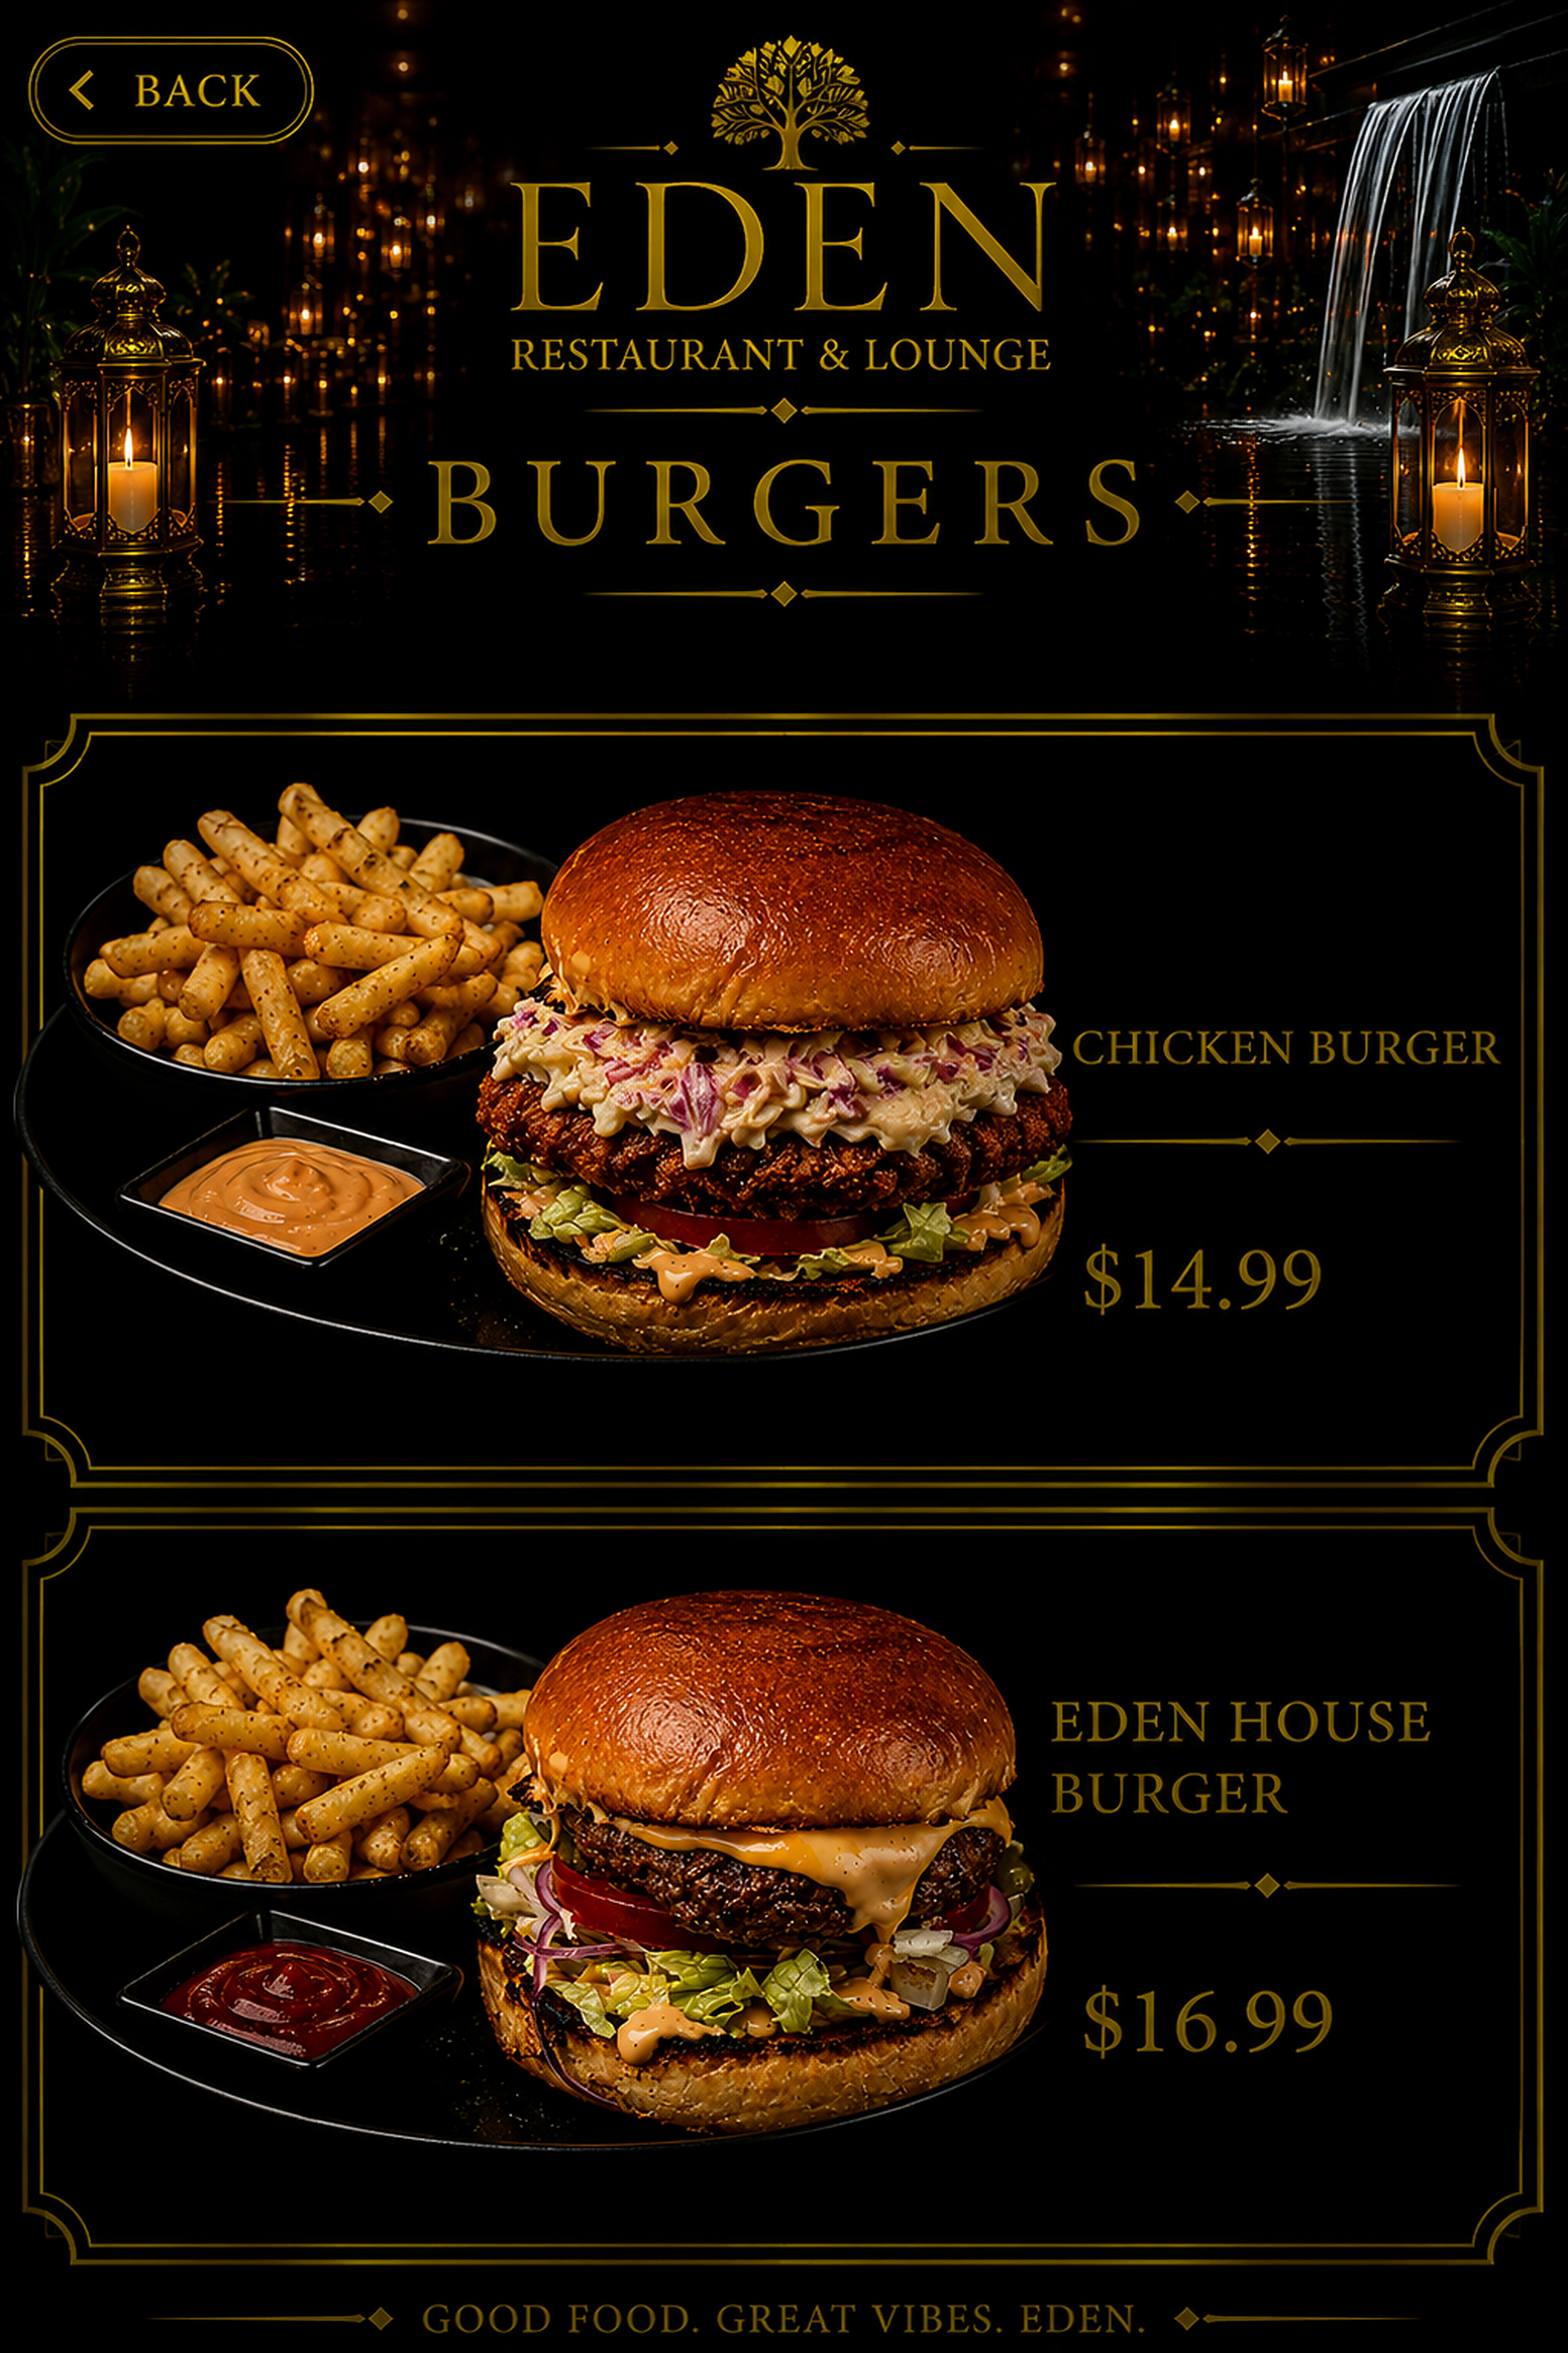
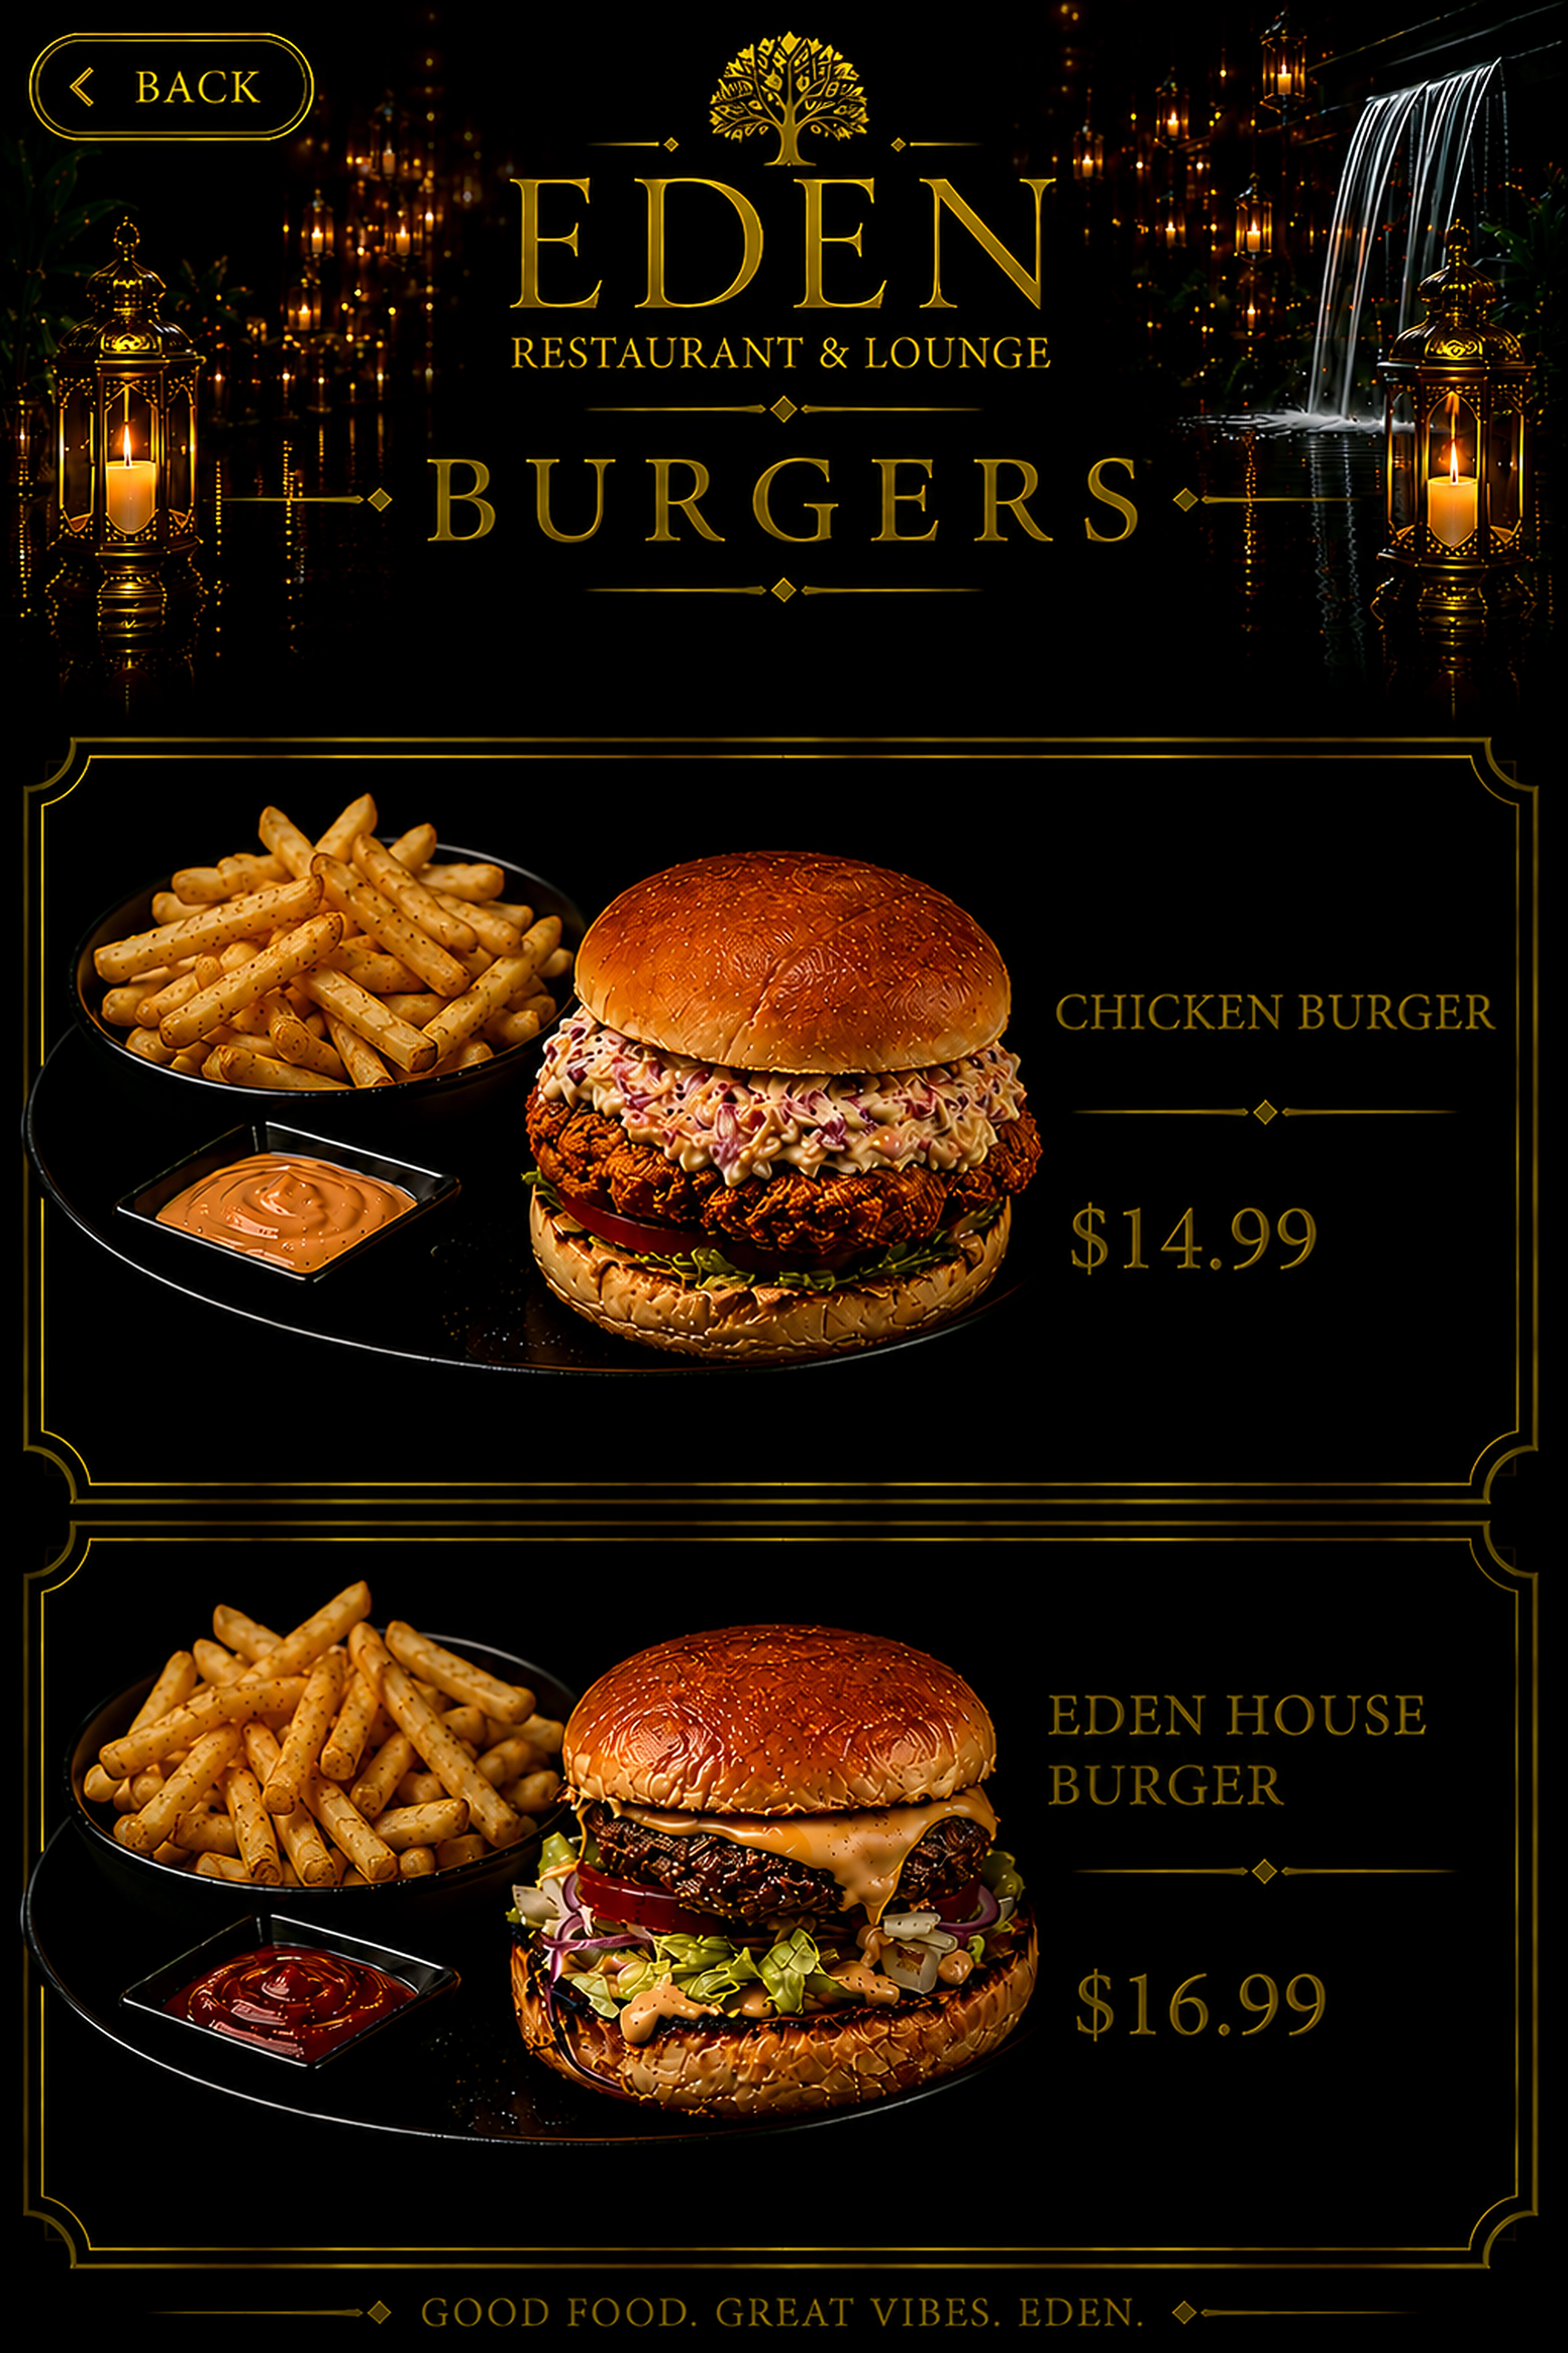
Replace burger menu artwork

diff --git a/script.js b/script.js
@@ -122,7 +122,7 @@ const sectionPages = {
     alt: "EDEN appetizers page"
   },
   Burgers: {
-    src: "assets/burgers-new-page-4k.webp?v=20260618-burgers2",
+    src: "assets/burgers-new-page-4k.webp?v=20260618-burgers3",
     alt: "EDEN burgers page"
   },
   Shawarma: {
